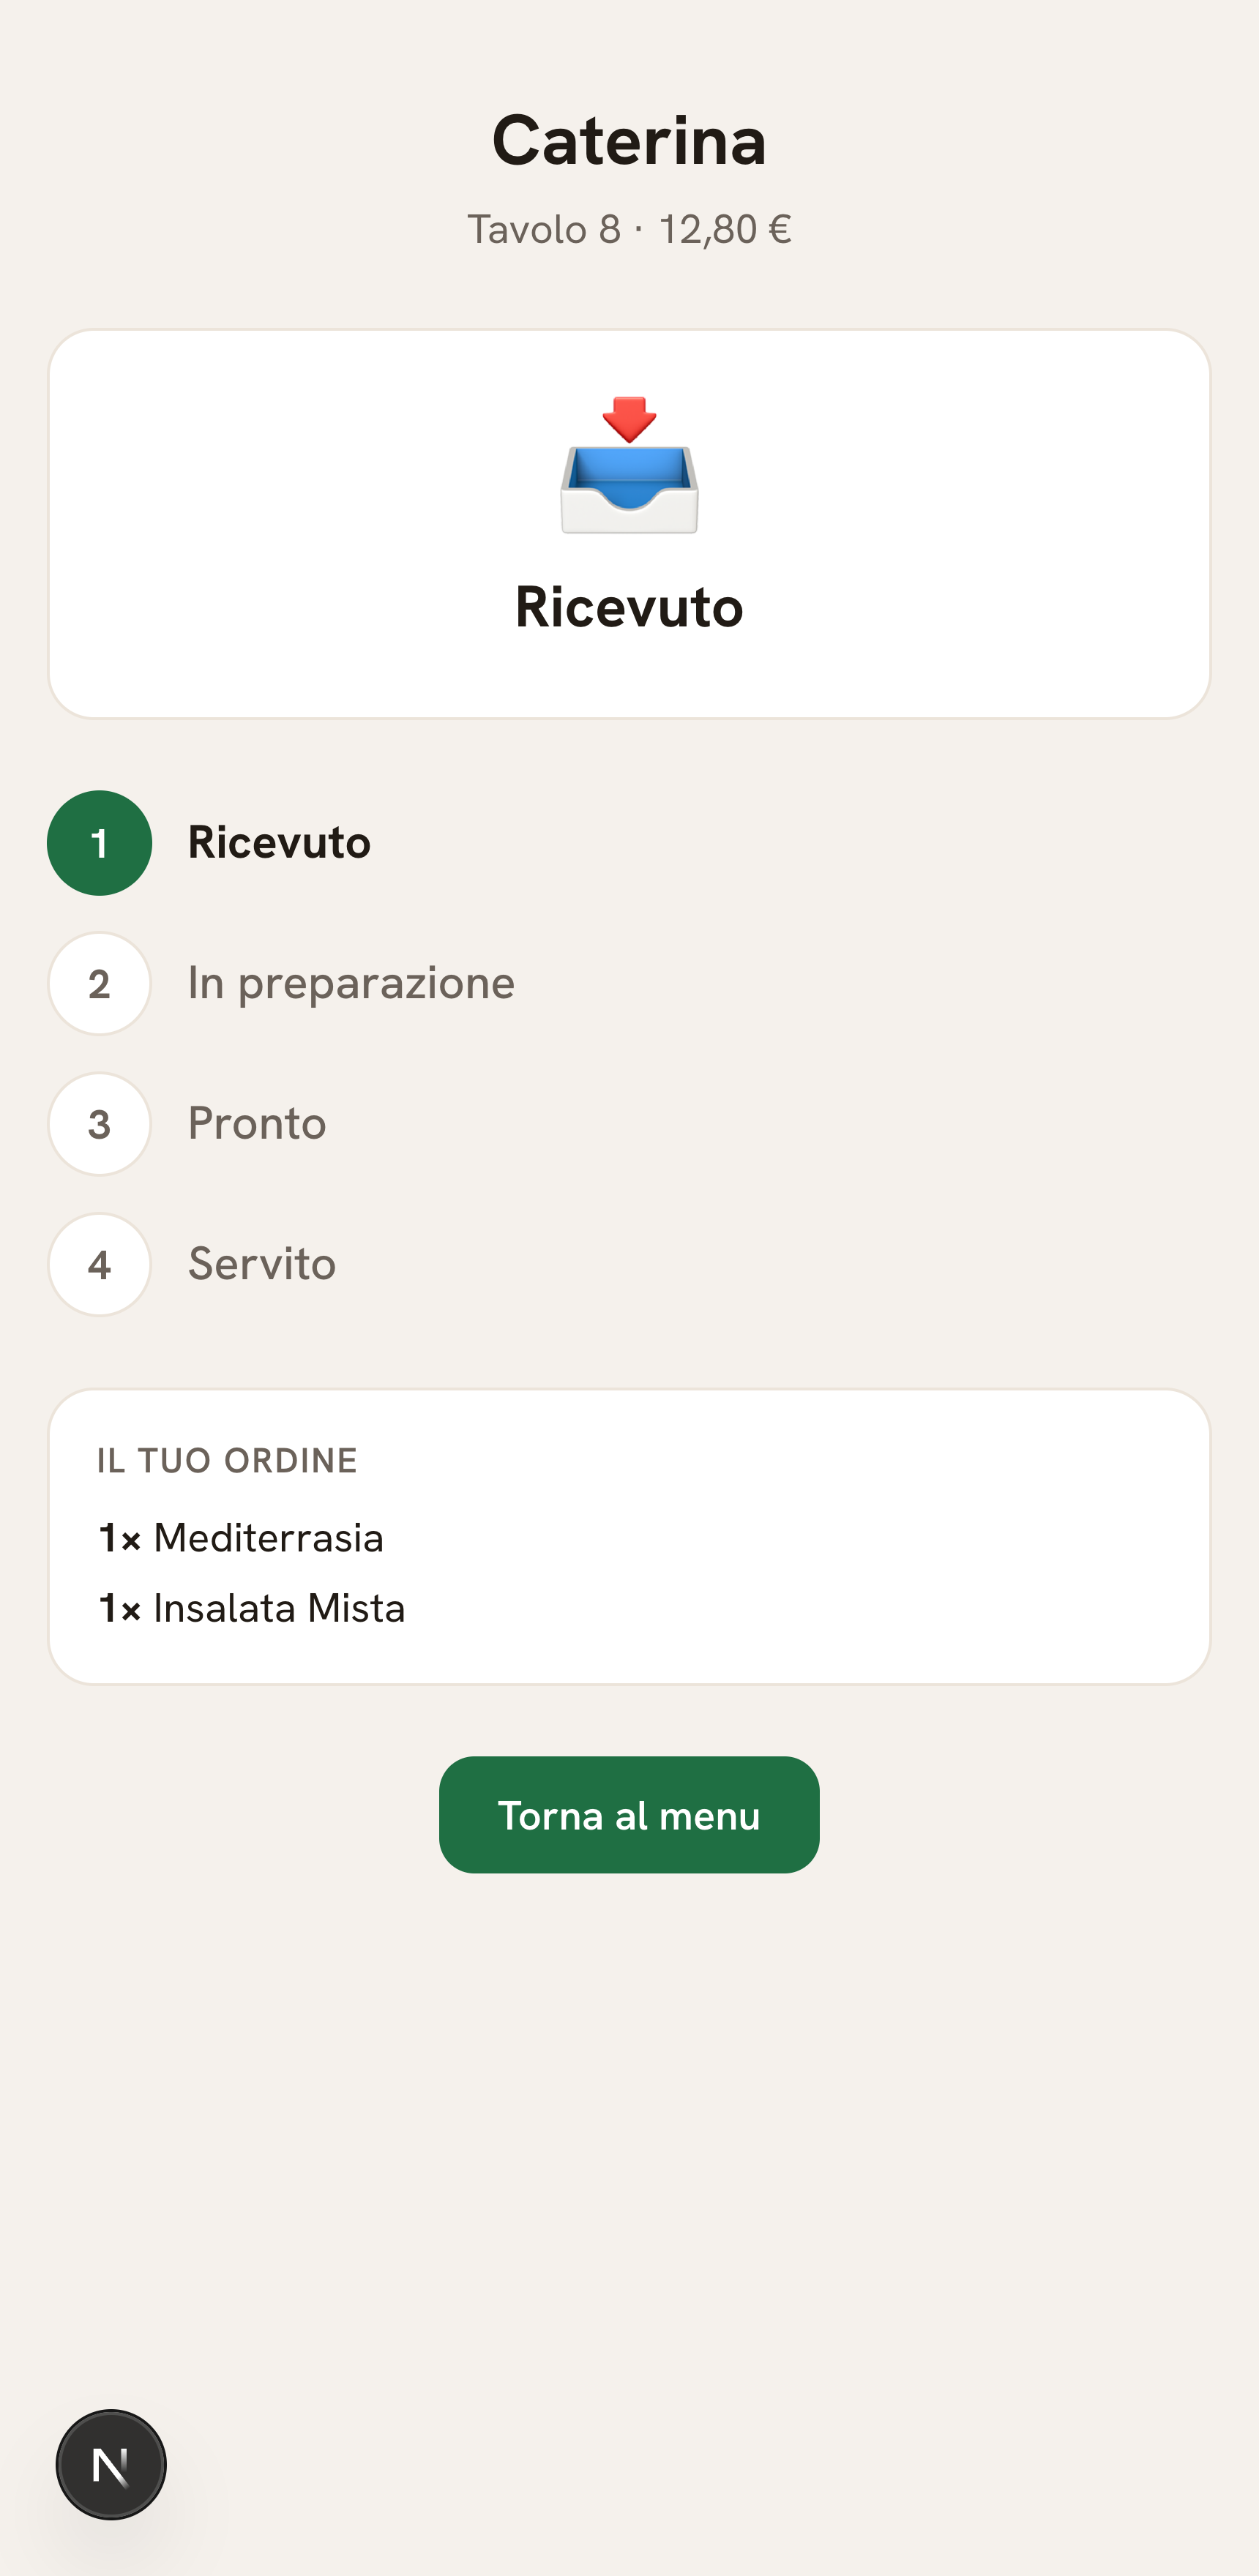
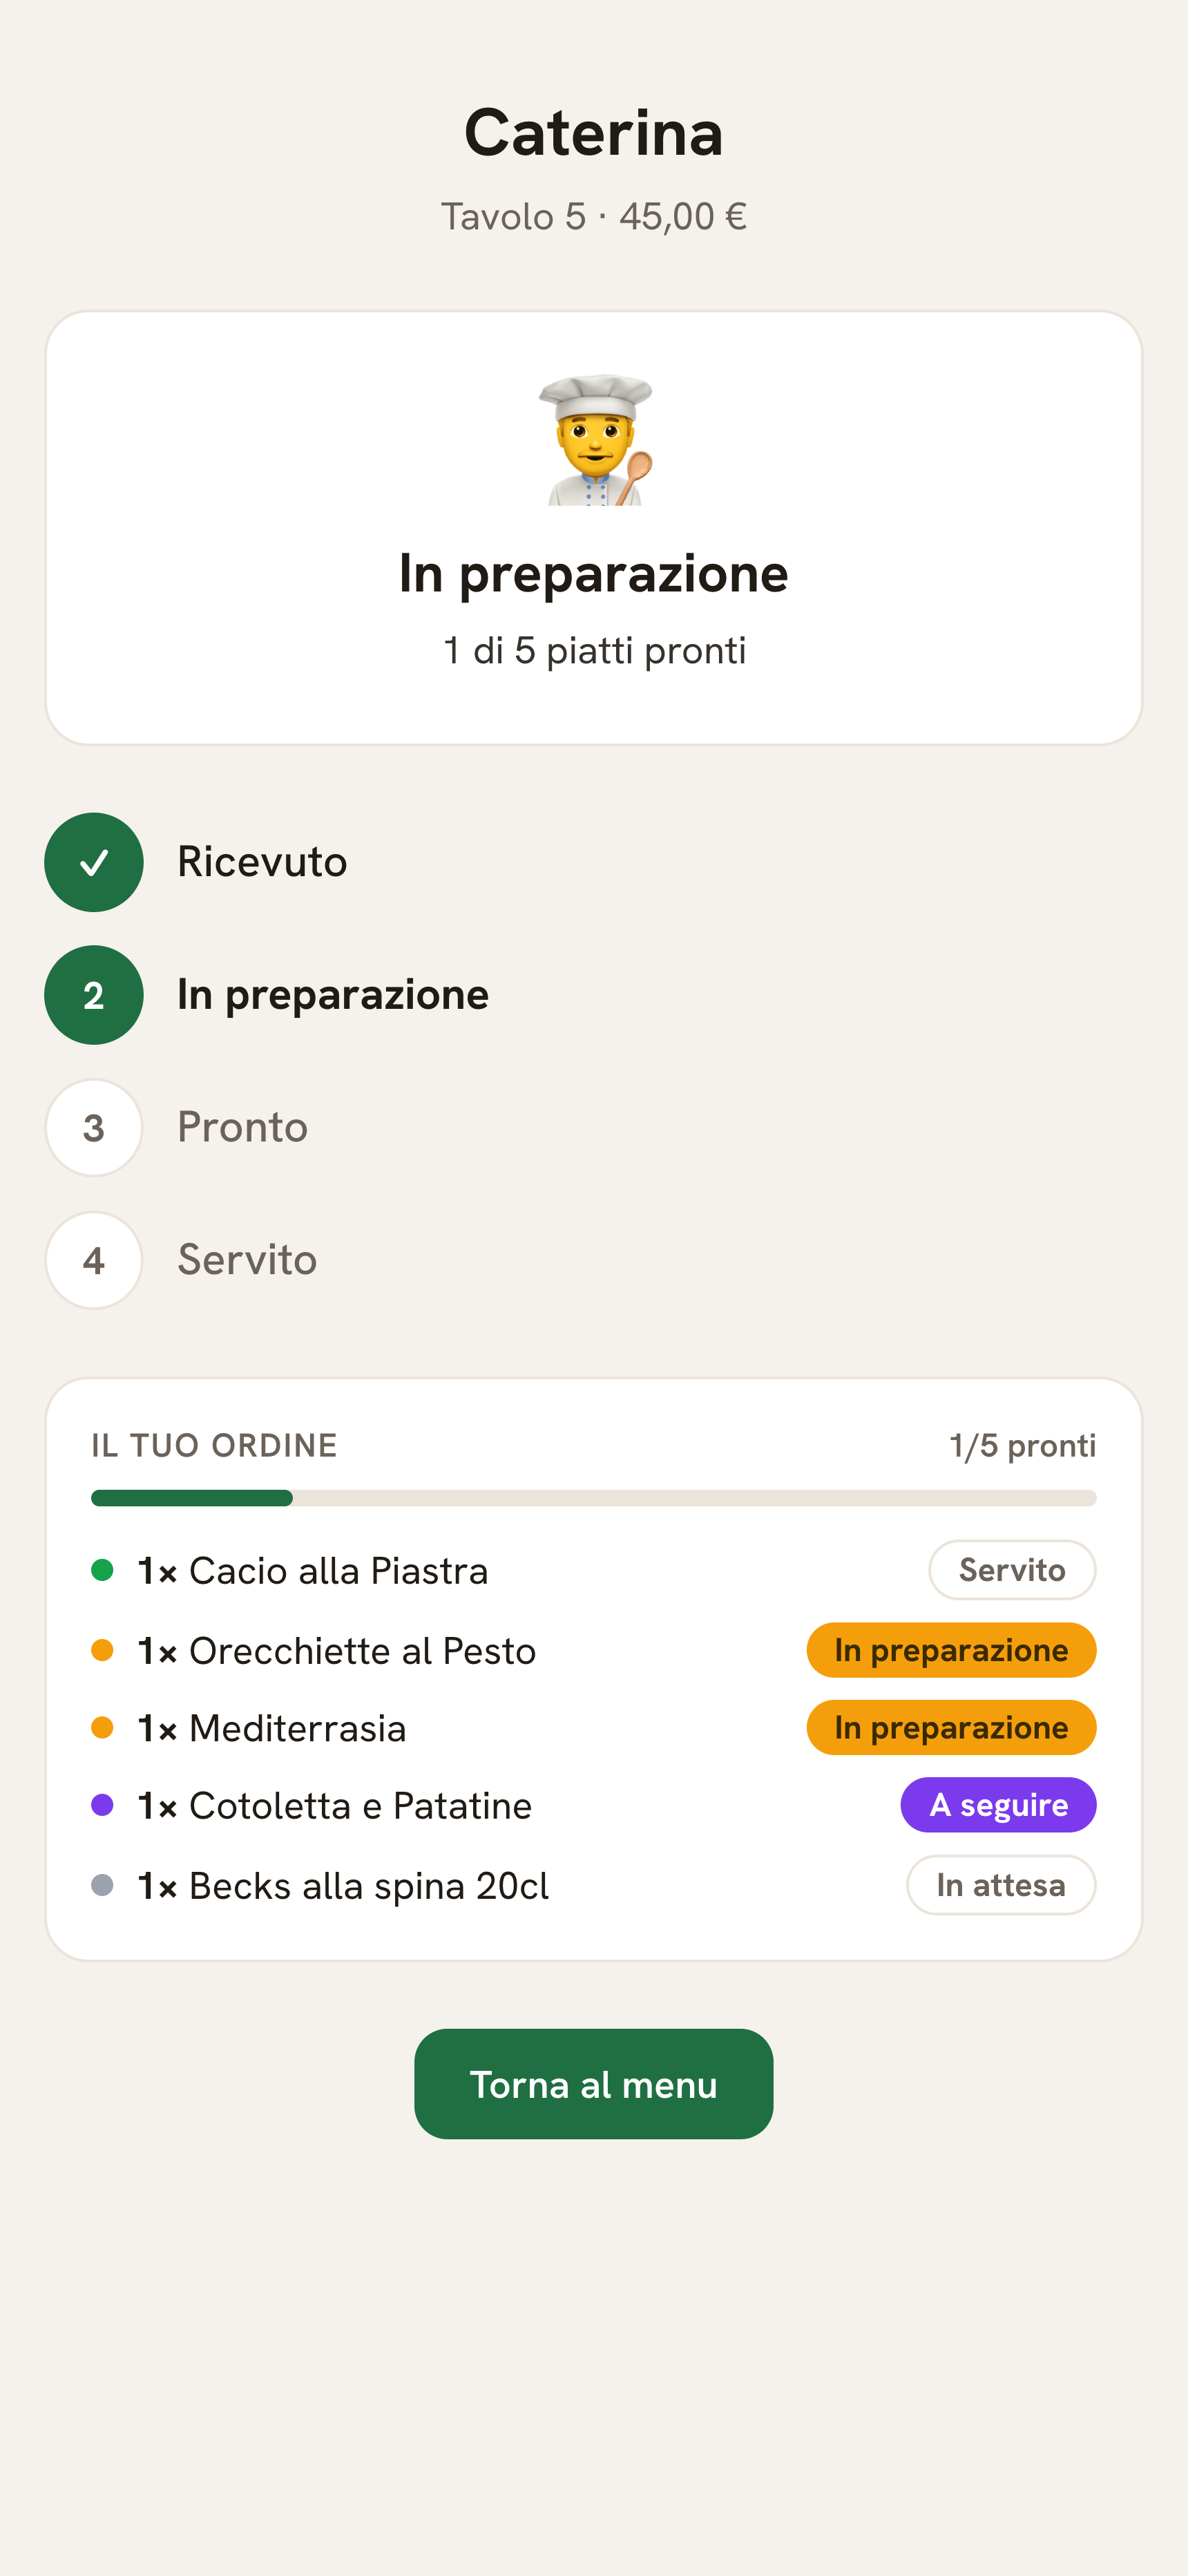
Presentazione: refresh screenshots for redesigned sections + add «Portate / a seguire» (efficienza 360°)
- 11-cucina-kds.png → the redesigned «Per tavolo» KDS (per-dish Avvia/Pronto,
  reparto chips, held «A seguire» + «Manda ora», multi-comanda, served table);
  KDS section copy updated (two views, per-dish, portate).
- 20-tracking.png → the per-dish customer tracker (In attesa / In preparazione /
  Pronto / Servito / A seguire + progress); tracking-strip copy updated.
- New section «Portate · servi a seguire» with 25-a-seguire.png (customer marks a
  dish «a seguire» in the order summary) — the 360° chain: cliente → cucina →
  cameriere → cliente.

Real screenshots captured from the live Caterina demo (prod build). Verified:
tsc, lint, build; sections render (screenshots).

diff --git a/src/app/presentazione/page.tsx b/src/app/presentazione/page.tsx
@@ -120,8 +120,8 @@ export default function PresentazionePage() {
           <Reveal delay={120} className="trackrow">
             <Phone src={`${IMG}/20-tracking.png`} alt="Segui il tuo ordine in tempo reale" w={208} />
             <div className="trackrow-copy">
-              <h3 className="ff h3">…e poi segue l’ordine in tempo reale.</h3>
-              <p>Appena invia, il cliente vede l’avanzamento dal telefono — Ricevuto → In preparazione → Pronto → Servito. Meno «è pronto?» al personale, più serenità in sala.</p>
+              <h3 className="ff h3">…e poi segue l’ordine, piatto per piatto.</h3>
+              <p>Appena invia, il cliente vede l’avanzamento dal telefono — non solo «in preparazione», ma lo stato di <b>ogni piatto</b>: in attesa, in preparazione, pronto, servito. Meno «è pronto?» al personale, più serenità in sala.</p>
             </div>
           </Reveal>
         </div>
@@ -197,13 +197,36 @@ export default function PresentazionePage() {
         <div className="wrap">
           <Reveal><Eyebrow className="on-dark">La cucina</Eyebrow>
             <h2 className="ff h2">La cucina che non sbaglia un ordine.</h2>
-            <p className="lead on-dark-muted">Comande digitali in tempo reale, divise per reparto, con timer e priorità. Addio comande di carta.</p></Reveal>
-          <Reveal delay={120}><Browser src={`${IMG}/11-cucina-kds.png`} alt="Kitchen Display System" /></Reveal>
+            <p className="lead on-dark-muted">Comande digitali in tempo reale: due viste (per stato e per tavolo), avvio per singolo piatto, smistamento per reparto, timer e priorità. Addio comande di carta.</p></Reveal>
+          <Reveal delay={120}><Browser src={`${IMG}/11-cucina-kds.png`} alt="Kitchen Display: vista per tavolo, avvio per piatto, portate «a seguire»" /></Reveal>
           <div className="trio on-dark-muted">
-            <Reveal delay={0}><p><b className="on-dark">Per reparto</b><br />Cucina, Bar, Pokeria, Rosticceria: ognuno vede solo i suoi piatti.</p></Reveal>
-            <Reveal delay={100}><p><b className="on-dark">Timer & ritardi</b><br />Ogni piatto col suo tempo; alert automatico se va oltre.</p></Reveal>
-            <Reveal delay={200}><p><b className="on-dark">Stati chiari</b><br />Da preparare → in preparazione → pronto → servito.</p></Reveal>
+            <Reveal delay={0}><p><b className="on-dark">Avvio per piatto</b><br />Ogni piatto parte e si segna pronto da solo, smistato al suo reparto (Cucina, Bar, Pokeria…).</p></Reveal>
+            <Reveal delay={100}><p><b className="on-dark">Per tavolo o per stato</b><br />Due viste della stessa cucina, con timer e alert sui ritardi: scegli come lavorare.</p></Reveal>
+            <Reveal delay={200}><p><b className="on-dark">Portate «a seguire»</b><br />Trattieni un piatto e lo mandi al momento giusto con «Manda ora».</p></Reveal>
           </div>
+        </div>
+      </section>
+
+      {/* ── Portate / «a seguire» — efficienza 360° ── */}
+      <section className="band band-alt">
+        <div className="wrap split">
+          <Reveal className="split-art">
+            <Phone src={`${IMG}/25-a-seguire.png`} alt="Il cliente segna un piatto «a seguire» nel riepilogo dell’ordine" w={250} />
+          </Reveal>
+          <Reveal delay={100} className="split-copy">
+            <Eyebrow>Portate · servi a seguire</Eyebrow>
+            <h2 className="ff h2">I secondi quando è il momento, non tutto insieme.</h2>
+            <p className="lead-sm">
+              Pasta adesso, tagliata a seguire: una catena che fila da sola, dal tavolo alla cucina e ritorno.
+            </p>
+            <ul className="ticks">
+              <li><b>Il cliente sceglie</b> — nel riepilogo dell’ordine segna i piatti «a seguire» (se lo abiliti).</li>
+              <li><b>La cucina trattiene</b> — il piatto resta in attesa sul monitor, senza partire.</li>
+              <li><b>Il cameriere manda</b> — al momento giusto, un tocco su «Manda ora» e parte la preparazione.</li>
+              <li><b>Il cliente segue</b> — vede il piatto «a seguire» finché non lo mandi: sa che arriva dopo, di proposito.</li>
+            </ul>
+            <p className="note">Ogni passaggio è attivabile in modo indipendente — efficienza a 360°, in sala, in cucina e al tavolo.</p>
+          </Reveal>
         </div>
       </section>
 